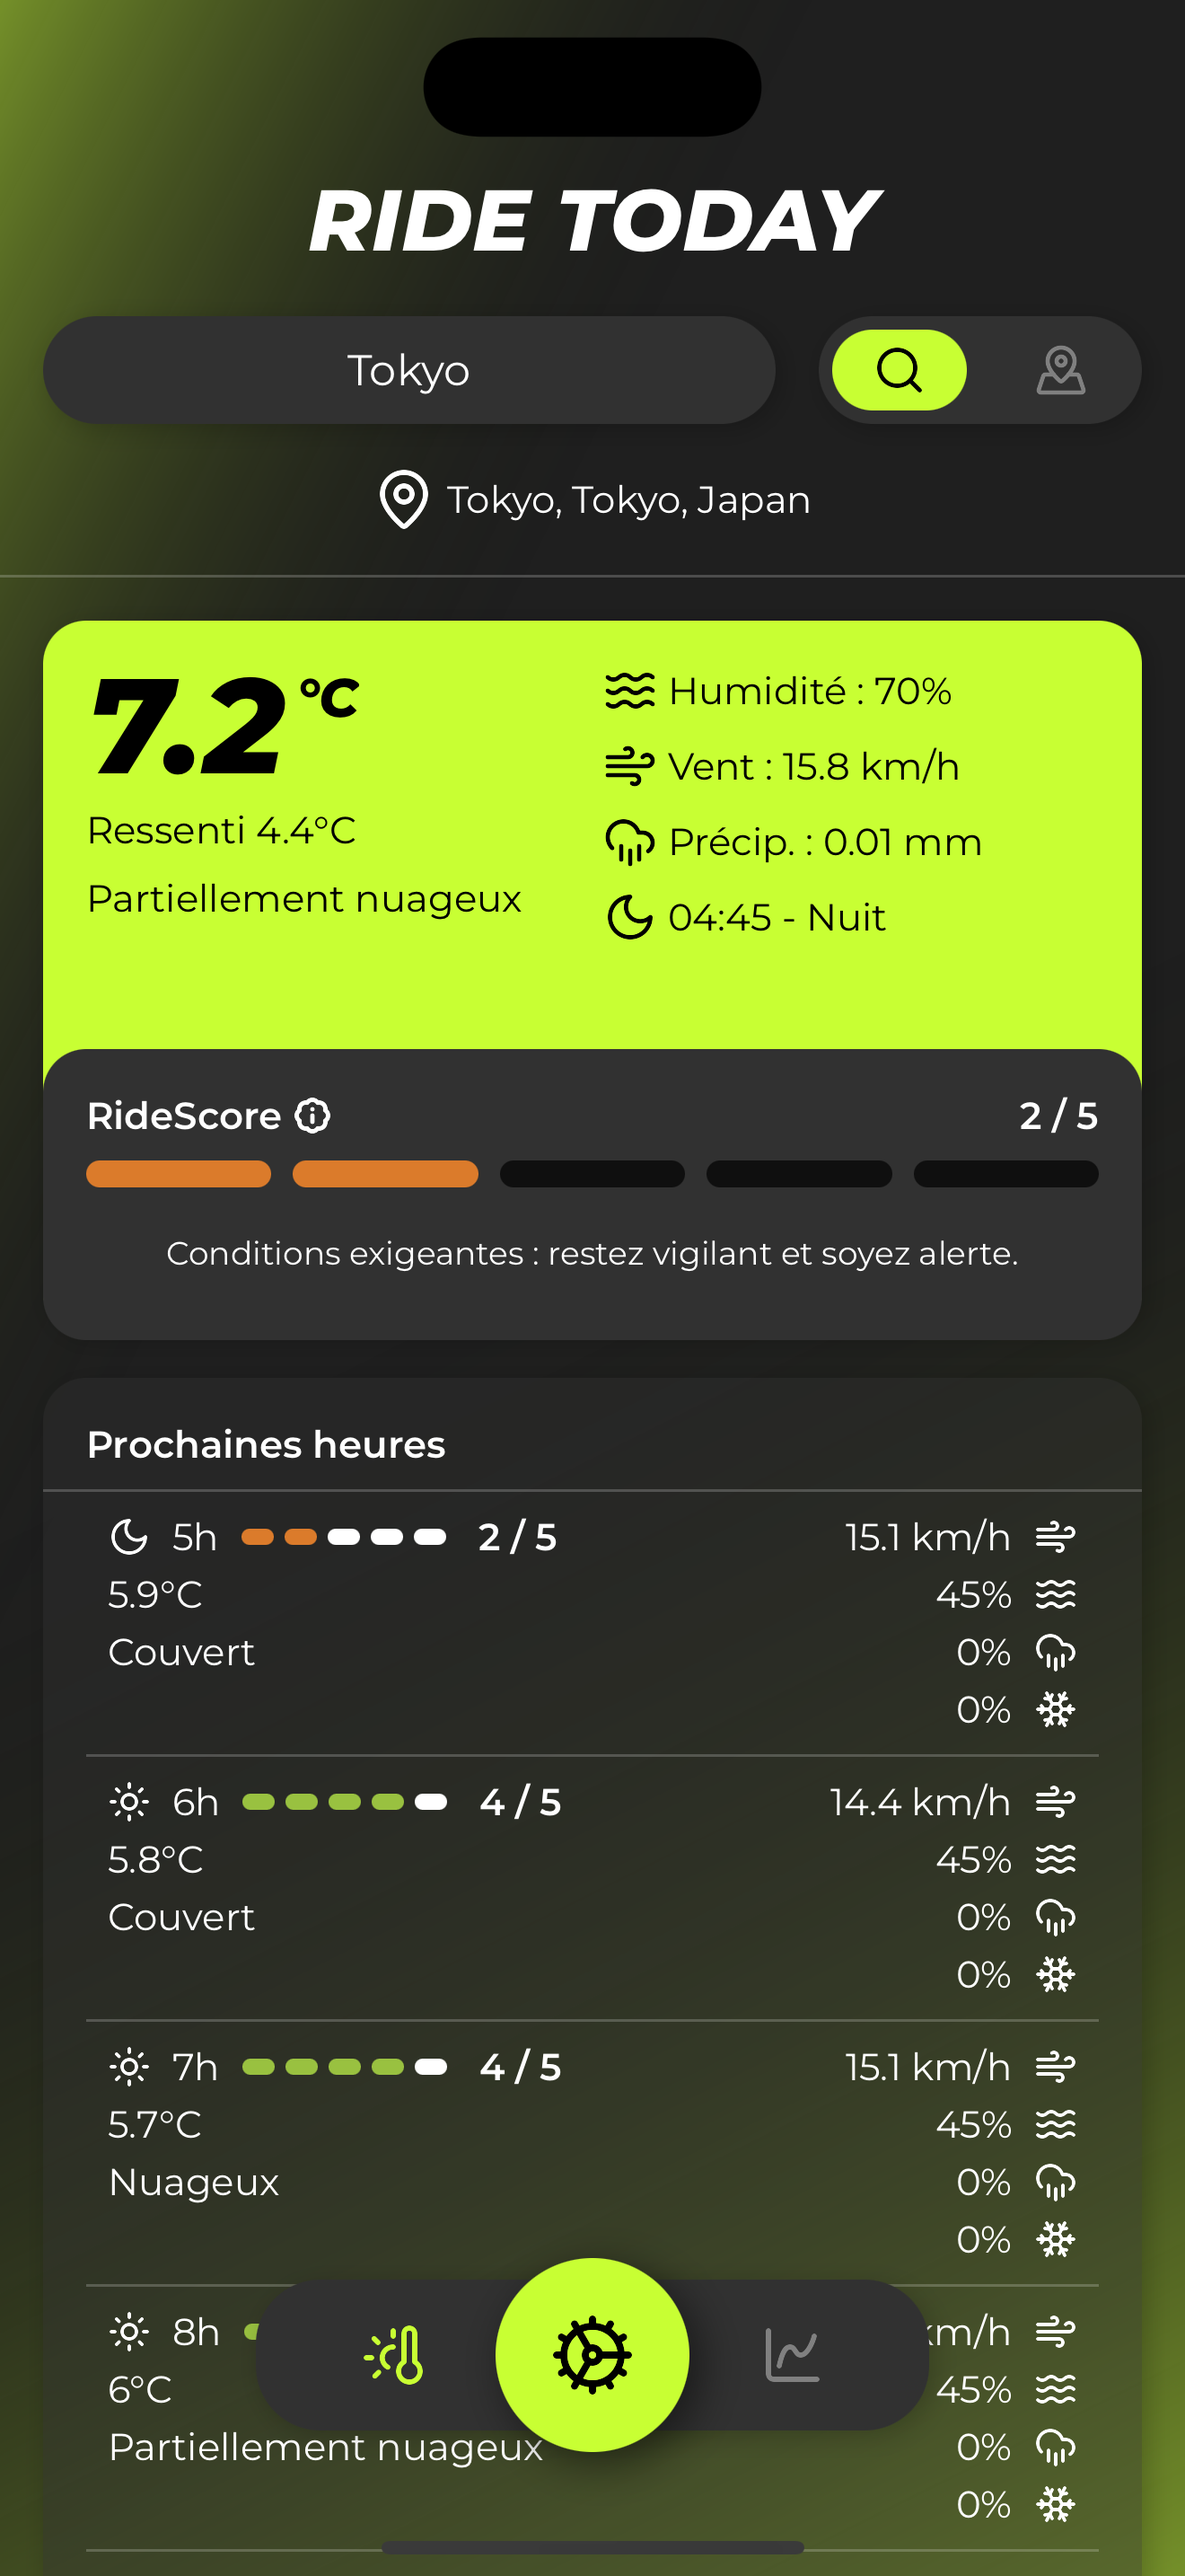
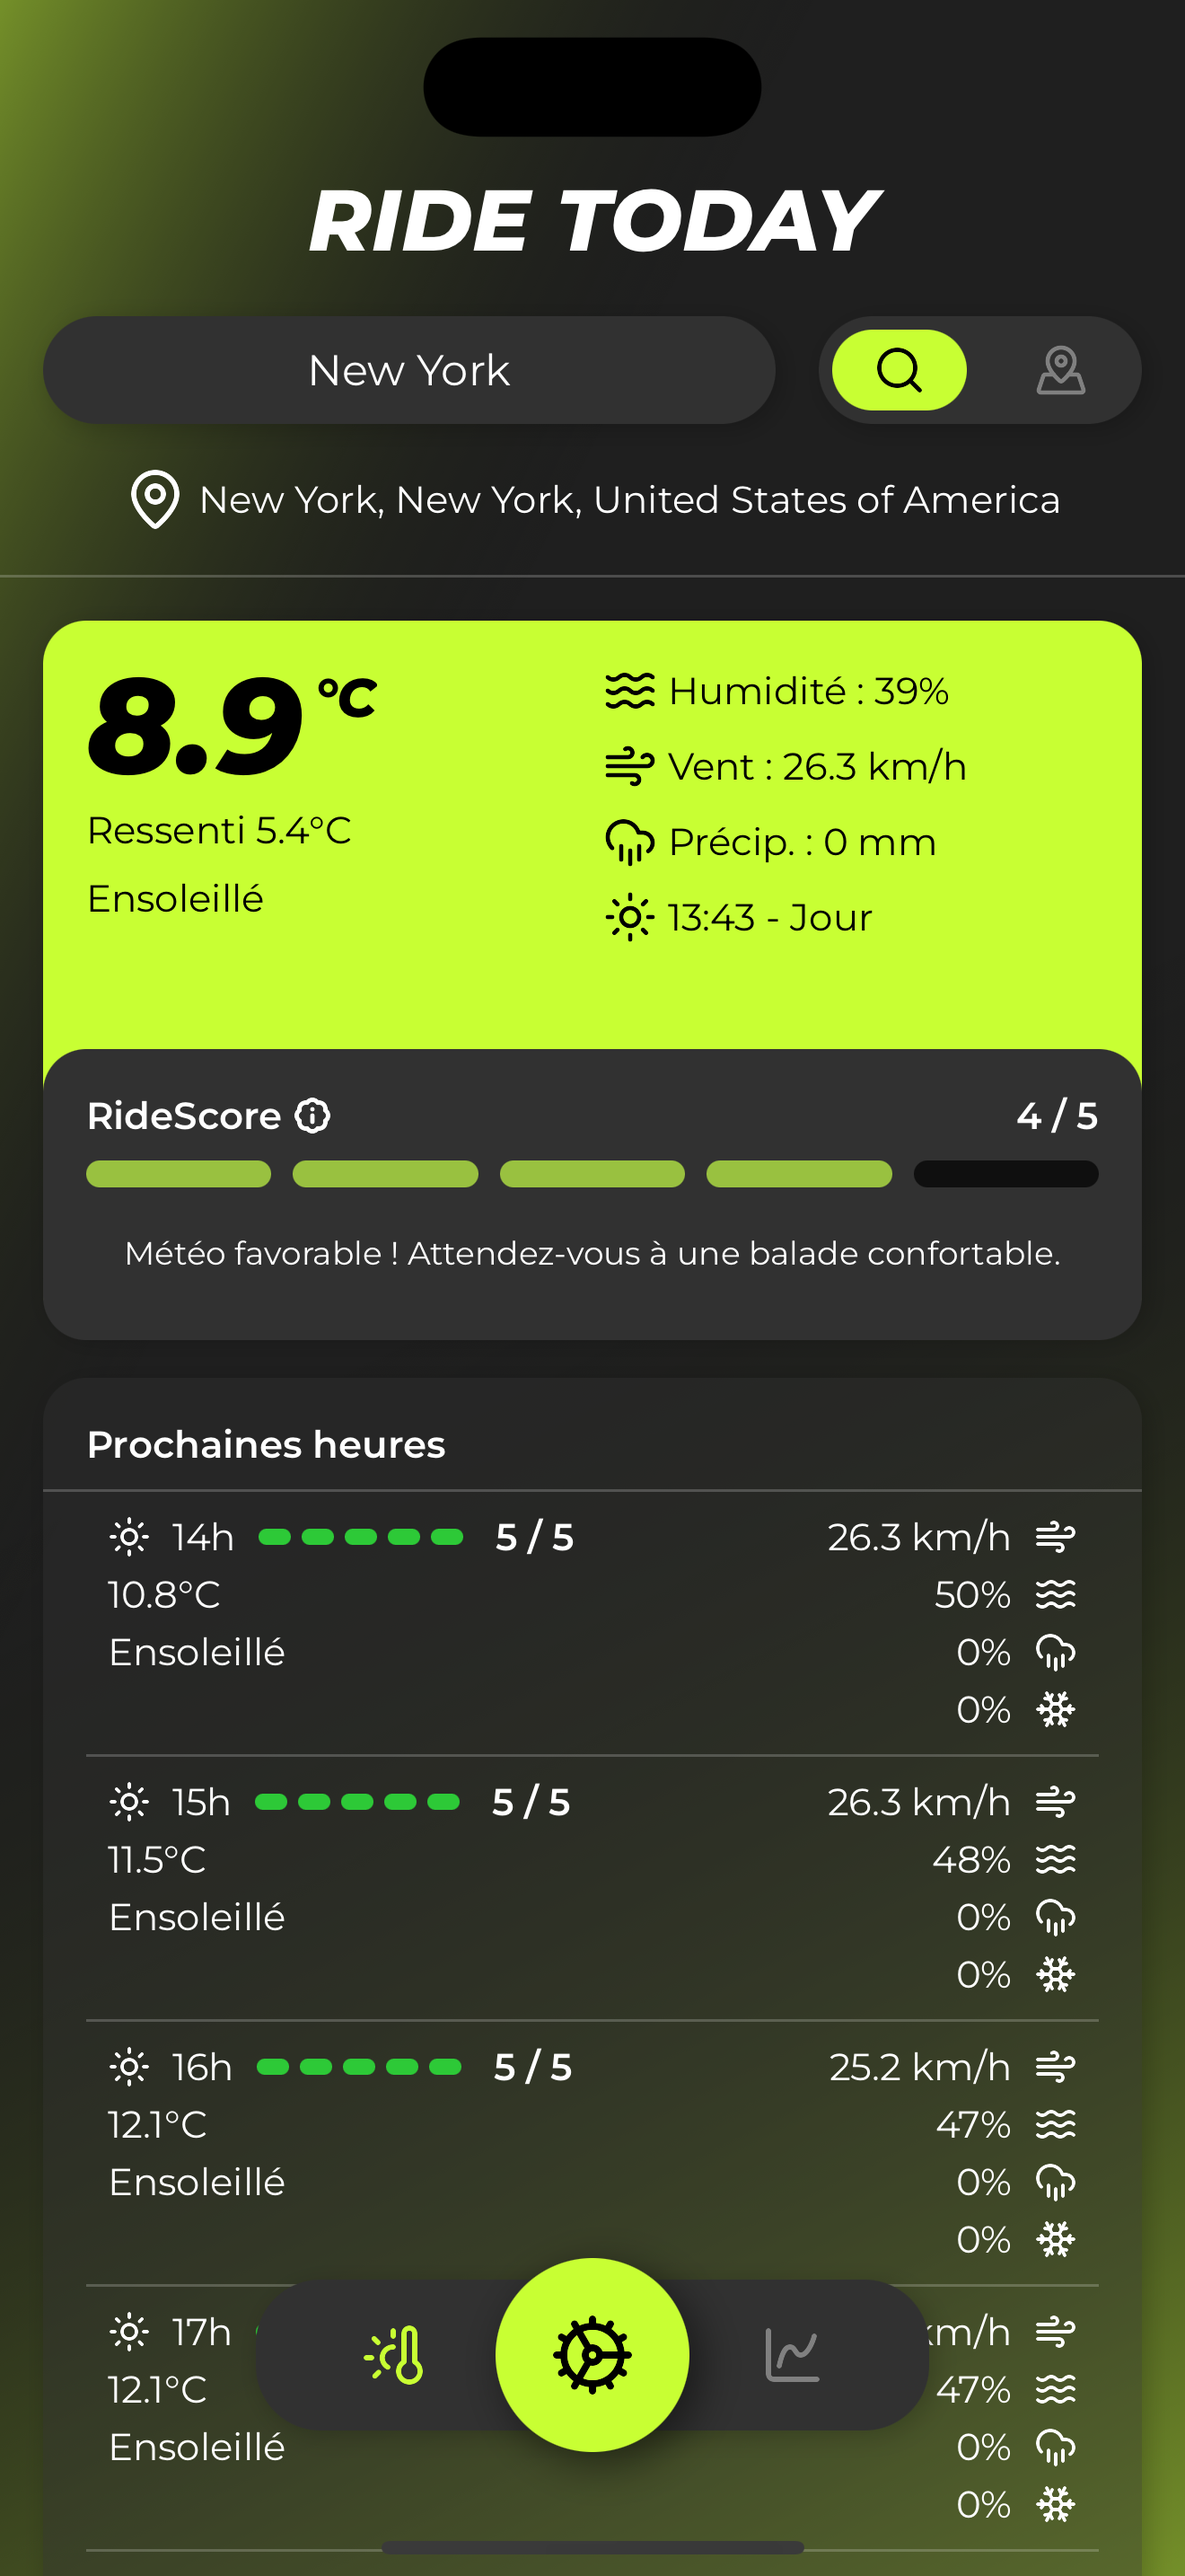
chore: replace assets for web

diff --git a/src/modules/home/screens/Home.screen.web.tsx b/src/modules/home/screens/Home.screen.web.tsx
@@ -47,8 +47,8 @@ export const Home = () => {
           />
           <PreviewImages
             images={[
-              { source: firstAsset, variant: "left" },
-              { source: secondAsset, variant: "center" },
+              { source: firstAsset, variant: "center" },
+              { source: secondAsset, variant: "left" },
               { source: thirdAsset, variant: "right" },
             ]}
           />
@@ -98,7 +98,7 @@ const CenterContainer = styled(FlexView)(({ theme }) => ({
 }));
 
 const Description = styled(Typography)({
-  textAlign: "justify",
+  textAlign: "center",
 });
 
 const ImagesContainer = styled.View({
